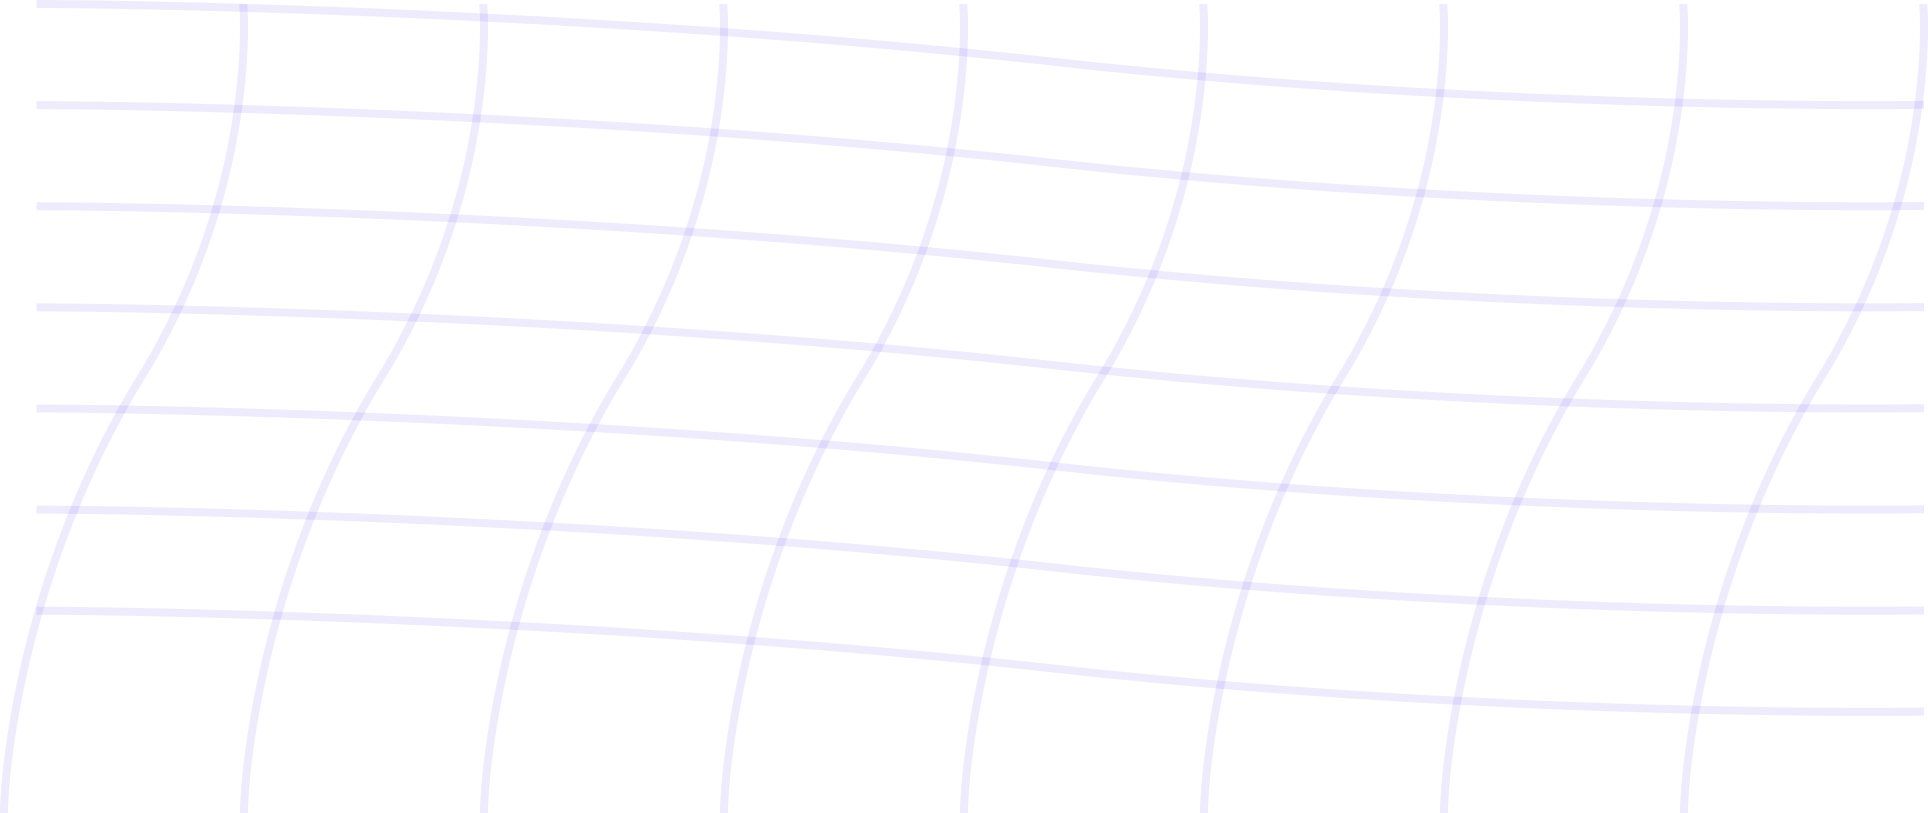
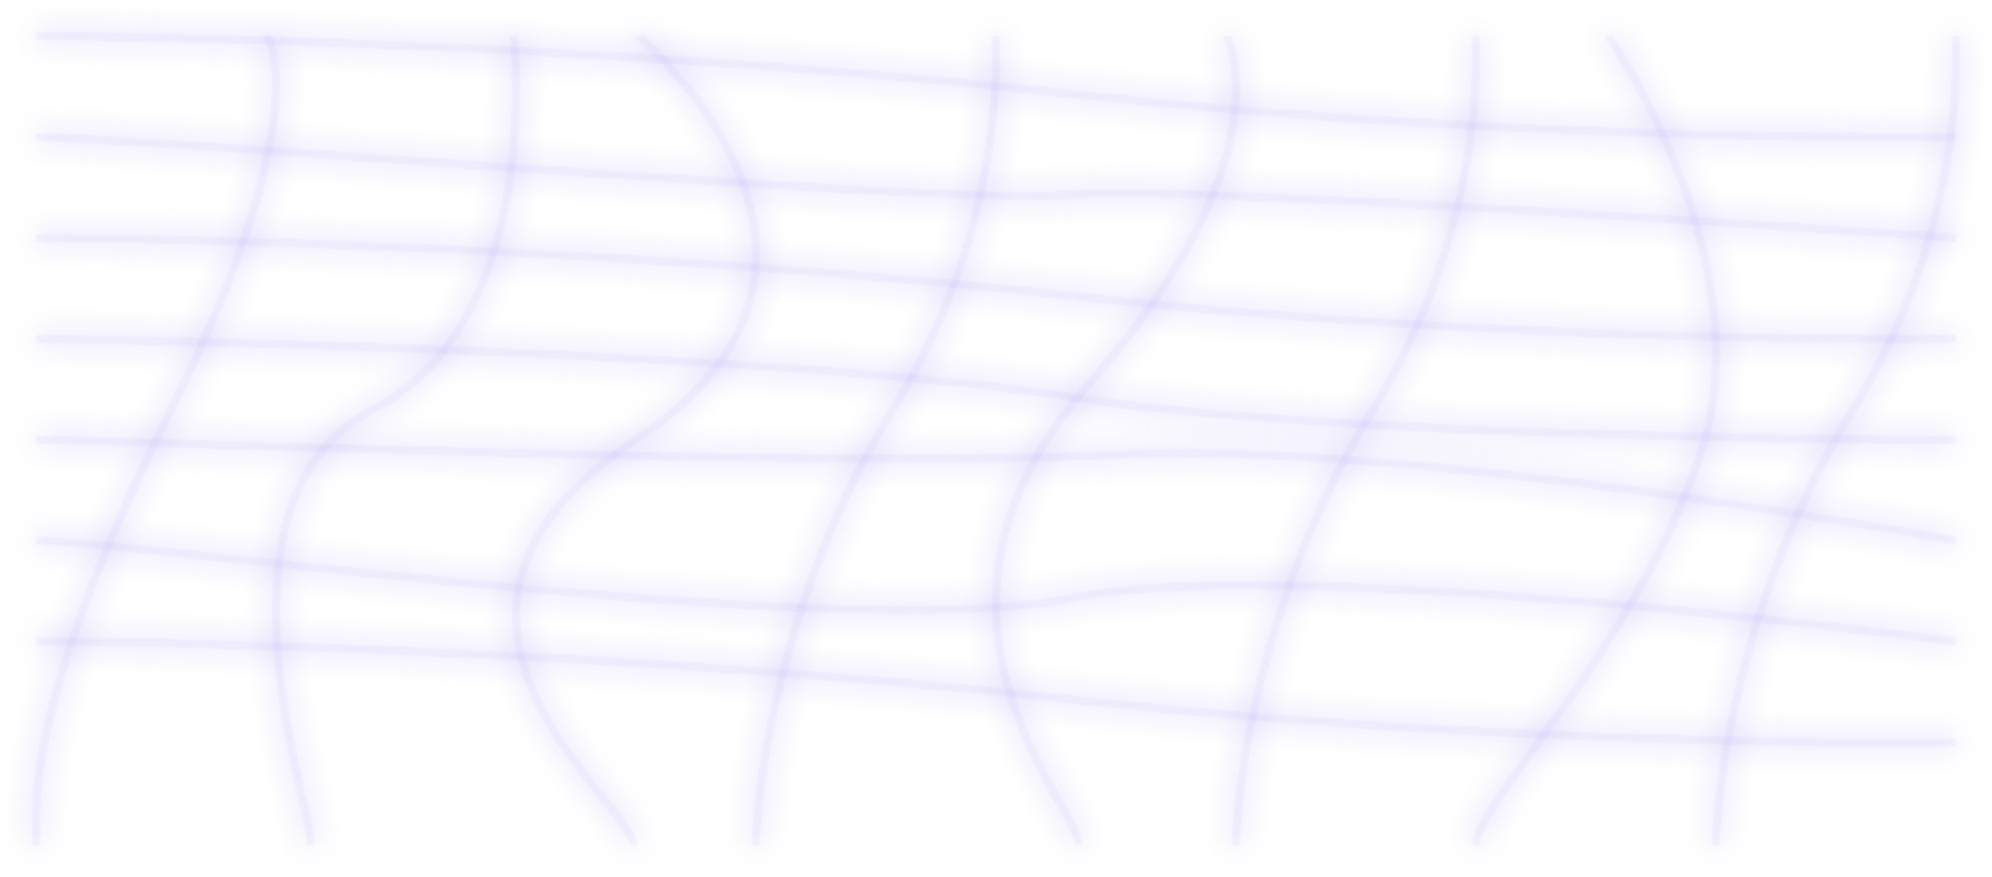
change header background and remove strange shape in header

diff --git a/src/views/Home.vue b/src/views/Home.vue
@@ -11,8 +11,8 @@
                     Contact me
                 </a>
             </div>
-            <img src="@/assets/shape_wavy.svg" class="absolute left-0 top-1/2 -translate-y-1/2 hidden md:block w-1/4 lg:w-1/3" />
-            <img src="@/assets/shape_wavy.svg" class="absolute right-0 top-1/2 -translate-y-1/2 hidden md:block w-1/4 lg:w-1/3 -scale-100" />
+            <!-- <img src="@/assets/shape_wavy.svg" class="absolute left-0 top-1/2 -translate-y-1/2 hidden md:block w-1/4 lg:w-1/3" />
+            <img src="@/assets/shape_wavy.svg" class="absolute right-0 top-1/2 -translate-y-1/2 hidden md:block w-1/4 lg:w-1/3 -scale-100" /> -->
             <div class="bg-gradient-to-t from-transparent to-primary absolute top-0 h-52 w-full"></div>
             <div class="bg-gradient-to-b from-transparent to-dark absolute bottom-0 h-48 w-full"></div>
         </header>
